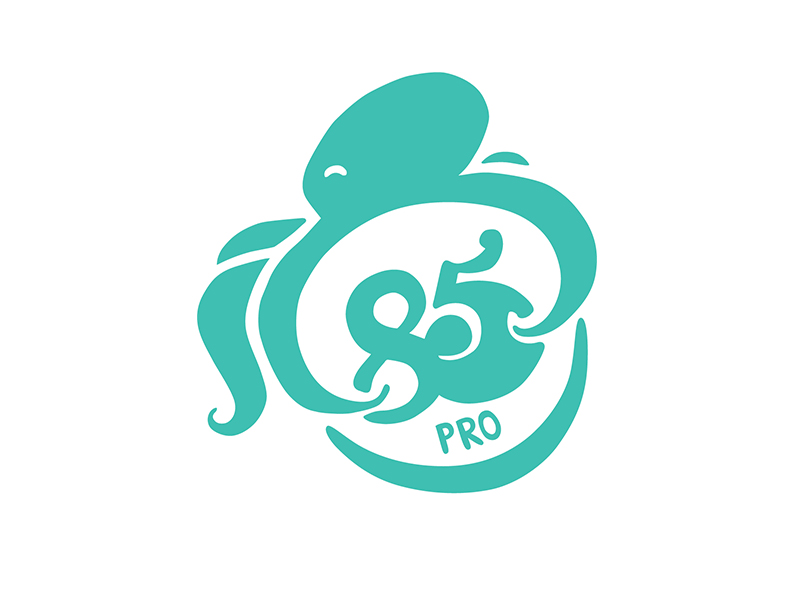
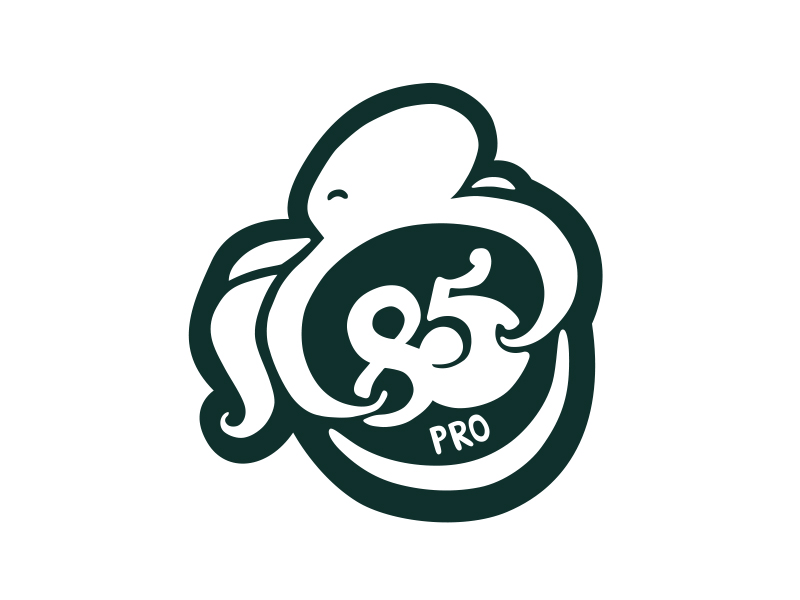
Projects Update/no pricing

Changed region(s): [[0.2188, 0.12, 0.7812, 0.87]]

diff --git a/portfolio.html b/portfolio.html
@@ -70,7 +70,6 @@
           <li><a href="about.html">About</a></li>
           <li><a href="services.html">Services</a></li>
           <li class="active"><a href="portfolio.html">Portfolio</a></li>
-          <li><a href="pricing.html">Pricing</a></li>
           <li><a href="contact.html">Contact</a></li>
 
         </ul>
@@ -94,14 +93,13 @@
               <li data-filter="*" class="filter-active">All</li>
               <li data-filter=".filter-album">Albums</li>
               <li data-filter=".filter-logo">Logos</li>
+              <li data-filter=".filter-branding">Branding</li>
               <li data-filter=".filter-web">Web</li>
                <li data-filter=".filter-package">Packaging</li>
               <li data-filter=".filter-ad">Ads</li>
               <li data-filter=".filter-book">Books</li>
               <li data-filter=".filter-menu">Menus</li>
               <li data-filter=".filter-poster">Posters</li>
-              <li data-filter=".filter-business">Business</li>
-             
             </ul>
           </div>
         </div>
@@ -134,6 +132,88 @@
               <a href="assets/img/portfolio/portfolio-3.jpg" data-gall="portfolioGallery" class="venobox preview-link" title="Ad"><i class="bx bx-plus"></i></a>
             </div>
           </div>
+
+           <div class="col-lg-4 col-md-6 portfolio-item filter-logo">
+            <img src="assets/img/portfolio/portfolio-22.jpg" class="img-fluid" alt="">
+            <div class="portfolio-info">
+              <h4>Mera</h4>
+              <p>Branding</p>
+              <a href="assets/img/portfolio/portfolio-22.jpg" data-gall="portfolioGallery" class="venobox preview-link" title="Logos"><i class="bx bx-plus"></i></a>
+            </div>
+          </div>
+
+             <div class="col-lg-4 col-md-6 portfolio-item filter-branding">
+            <img src="assets/img/portfolio/portfolio-23.jpg" class="img-fluid" alt="">
+            <div class="portfolio-info">
+              <h4>Mera</h4>
+              <p>Branding</p>
+              <a href="assets/img/portfolio/portfolio-23.jpg" data-gall="portfolioGallery" class="venobox preview-link" title="Branding"><i class="bx bx-plus"></i></a>
+            </div>
+          </div>
+
+          <div class="col-lg-4 col-md-6 portfolio-item filter-logo">
+            <img src="assets/img/portfolio/portfolio-32.jpg" class="img-fluid" alt="">
+            <div class="portfolio-info">
+              <h4>The Black Sheep</h4>
+              <p>Logo</p>
+              <a href="assets/img/portfolio/portfolio-32.jpg" data-gall="portfolioGallery" class="venobox preview-link" title="Logo"><i class="bx bx-plus"></i></a>
+            </div>
+          </div>
+
+          <div class="col-lg-4 col-md-6 portfolio-item filter-poster">
+            <img src="assets/img/portfolio/portfolio-11.jpg" class="img-fluid" alt="">
+            <div class="portfolio-info">
+              <h4>Lollapalooza 2018 </h4>
+              <p>Poster</p>
+              <a href="assets/img/portfolio/portfolio-11.jpg" data-gall="portfolioGallery" class="venobox preview-link" title="Poster"><i class="bx bx-plus"></i></a>
+            </div>
+          </div>
+
+          <div class="col-lg-4 col-md-6 portfolio-item filter-logo">
+            <img src="assets/img/portfolio/portfolio-25.jpg" class="img-fluid" alt="">
+            <div class="portfolio-info">
+              <h4>Khan Cologne</h4>
+              <p>Logo</p>
+              <a href="assets/img/portfolio/portfolio-25.jpg" data-gall="portfolioGallery" class="venobox preview-link" title="Logo"><i class="bx bx-plus"></i></a>
+            </div>
+          </div>
+
+          <div class="col-lg-4 col-md-6 portfolio-item filter-packaging">
+            <img src="assets/img/portfolio/portfolio-24.jpg" class="img-fluid" alt="">
+            <div class="portfolio-info">
+              <h4>Khan Cologne</h4>
+              <p>Packaging</p>
+              <a href="assets/img/portfolio/portfolio-24.jpg" data-gall="portfolioGallery" class="venobox preview-link" title="Packaging"><i class="bx bx-plus"></i></a>
+            </div>
+          </div>
+
+          <div class="col-lg-4 col-md-6 portfolio-item filter-logo">
+            <img src="assets/img/portfolio/portfolio-28.jpg" class="img-fluid" alt="">
+            <div class="portfolio-info">
+              <h4>Mirror Mirror Hair Studio and Spa</h4>
+              <p>Logo</p>
+              <a href="assets/img/portfolio/portfolio-28.jpg" data-gall="portfolioGallery" class="venobox preview-link" title="Ad"><i class="bx bx-plus"></i></a>
+            </div>
+          </div>
+
+          <div class="col-lg-4 col-md-6 portfolio-item filter-logo">
+            <img src="assets/img/portfolio/portfolio-34.jpg" class="img-fluid" alt="">
+            <div class="portfolio-info">
+              <h4>Bink Electronics</h4>
+              <p>Logo</p>
+              <a href="assets/img/portfolio/portfolio-34.jpg" data-gall="portfolioGallery" class="venobox preview-link" title="Logo"><i class="bx bx-plus"></i></a>
+            </div>
+          </div>
+
+           <div class="col-lg-4 col-md-6 portfolio-item filter-packing">
+            <img src="assets/img/portfolio/portfolio-26.jpg" class="img-fluid" alt="">
+            <div class="portfolio-info">
+              <h4>Bink Electronics</h4>
+              <p>Packaging</p>
+              <a href="assets/img/portfolio/portfolio-26.jpg" data-gall="portfolioGallery" class="venobox preview-link" title="Packaging"><i class="bx bx-plus"></i></a>
+            </div>
+          </div>
+
 
           <div class="col-lg-4 col-md-6 portfolio-item filter-book">
             <img src="assets/img/portfolio/portfolio-4.jpg" class="img-fluid" alt="">
@@ -207,6 +287,15 @@
             </div>
           </div>
 
+           <div class="col-lg-4 col-md-6 portfolio-item filter-branding">
+            <img src="assets/img/portfolio/portfolio-21.jpg" class="img-fluid" alt="">
+            <div class="portfolio-info">
+              <h4>85 Pro</h4>
+              <p>Branding</p>
+              <a href="assets/img/portfolio/portfolio-21.jpg" data-gall="portfolioGallery" class="venobox preview-link" title="Business"><i class="bx bx-plus"></i></a>
+            </div>
+          </div>
+
           <div class="col-lg-4 col-md-6 portfolio-item filter-logo">
             <img src="assets/img/portfolio/portfolio-9.jpg" class="img-fluid" alt="">
             <div class="portfolio-info">
@@ -243,12 +332,48 @@
             </div>
           </div> 
 
-          <div class="col-lg-4 col-md-6 portfolio-item filter-poster">
-            <img src="assets/img/portfolio/portfolio-11.jpg" class="img-fluid" alt="">
+           <div class="col-lg-4 col-md-6 portfolio-item filter-package">
+            <img src="assets/img/portfolio/portfolio-33.jpg" class="img-fluid" alt="">
             <div class="portfolio-info">
-              <h4>Lollapalooza 2018 </h4>
-              <p>Poster</p>
-              <a href="assets/img/portfolio/portfolio-11.jpg" data-gall="portfolioGallery" class="venobox preview-link" title="Poster"><i class="bx bx-plus"></i></a>
+              <h4>Maggie Moo's Apron</h4>
+              <p>Branding</p>
+              <a href="assets/img/portfolio/portfolio-33.jpg" data-gall="portfolioGallery" class="venobox preview-link" title="Business"><i class="bx bx-plus"></i></a>
+            </div>
+          </div> 
+
+          <div class="col-lg-4 col-md-6 portfolio-item filter-business">
+            <img src="assets/img/portfolio/portfolio-16.jpg" class="img-fluid" alt="">
+            <div class="portfolio-info">
+              <h4>Cemex Stationary</h4>
+              <p>Business</p>
+              <a href="assets/img/portfolio/portfolio-16.jpg" data-gall="portfolioGallery" class="venobox preview-link" title="Business"><i class="bx bx-plus"></i></a>
+            </div>
+          </div>
+
+          <div class="col-lg-4 col-md-6 portfolio-item filter-ad">
+            <img src="assets/img/portfolio/portfolio-29.jpg" class="img-fluid" alt="">
+            <div class="portfolio-info">
+              <h4>Nike</h4>
+              <p>Ad</p>
+              <a href="assets/img/portfolio/portfolio-29.jpg" data-gall="portfolioGallery" class="venobox preview-link" title="Ad"><i class="bx bx-plus"></i></a>
+            </div>
+          </div>
+
+           <div class="col-lg-4 col-md-6 portfolio-item filter-ad">
+            <img src="assets/img/portfolio/portfolio-30.jpg" class="img-fluid" alt="">
+            <div class="portfolio-info">
+              <h4>Nike</h4>
+              <p>Ad</p>
+              <a href="assets/img/portfolio/portfolio-30.jpg" data-gall="portfolioGallery" class="venobox preview-link" title="Ad"><i class="bx bx-plus"></i></a>
+            </div>
+          </div>
+
+          <div class="col-lg-4 col-md-6 portfolio-item filter-ad">
+            <img src="assets/img/portfolio/portfolio-31.jpg" class="img-fluid" alt="">
+            <div class="portfolio-info">
+              <h4>Nike</h4>
+              <p>Ad</p>
+              <a href="assets/img/portfolio/portfolio-31.jpg" data-gall="portfolioGallery" class="venobox preview-link" title="Ad"><i class="bx bx-plus"></i></a>
             </div>
           </div>
 
@@ -260,16 +385,7 @@
               <a href="assets/img/portfolio/portfolio-12.jpg" data-gall="portfolioGallery" class="venobox preview-link" title="Ad"><i class="bx bx-plus"></i></a>
             </div>
           </div>
-          
-          <div class="col-lg-4 col-md-6 portfolio-item filter-business">
-            <img src="assets/img/portfolio/portfolio-16.jpg" class="img-fluid" alt="">
-            <div class="portfolio-info">
-              <h4>Cemex Stationary</h4>
-              <p>Business</p>
-              <a href="assets/img/portfolio/portfolio-16.jpg" data-gall="portfolioGallery" class="venobox preview-link" title="Business"><i class="bx bx-plus"></i></a>
-            </div>
-          </div>
-          
+
           <div class="col-lg-4 col-md-6 portfolio-item filter-web">
             <img src="assets/img/portfolio/portfolio-17.jpg" class="img-fluid" alt="">
             <div class="portfolio-info">
@@ -278,6 +394,7 @@
               <a href="assets/img/portfolio/portfolio-17.jpg" data-gall="portfolioGallery" class="venobox preview-link" title="Web"><i class="bx bx-plus"></i></a>
             </div>
           </div>
+
 
         </div>
 

diff --git a/about.html b/about.html
@@ -70,7 +70,6 @@
           <li class="active"><a href="about.html">About</a></li>
           <li><a href="services.html">Services</a></li>
           <li><a href="portfolio.html">Portfolio</a></li>
-          <li><a href="pricing.html">Pricing</a></li>
           <li><a href="contact.html">Contact</a></li>
 
         </ul>

diff --git a/contact.html b/contact.html
@@ -71,7 +71,6 @@
           <li><a href="about.html">About</a></li>
           <li><a href="services.html">Services</a></li>
           <li><a href="portfolio.html">Portfolio</a></li>
-          <li><a href="pricing.html">Pricing</a></li>
           <li class="active"><a href="contact.html">Contact</a></li>
 
         </ul>

diff --git a/services.html b/services.html
@@ -70,7 +70,6 @@
           <li><a href="about.html">About</a></li>
           <li class="active"><a href="services.html">Services</a></li>
           <li><a href="portfolio.html">Portfolio</a></li>
-          <li><a href="pricing.html">Pricing</a></li>
           <li><a href="contact.html">Contact</a></li>
 
         </ul>

diff --git a/index.html b/index.html
@@ -71,7 +71,6 @@
           <li><a href="about.html">About</a></li>
           <li><a href="services.html">Services</a></li>
           <li><a href="portfolio.html">Portfolio</a></li>
-          <li><a href="pricing.html">Pricing</a></li>
           <li><a href="contact.html">Contact</a></li>
 
         </ul>
